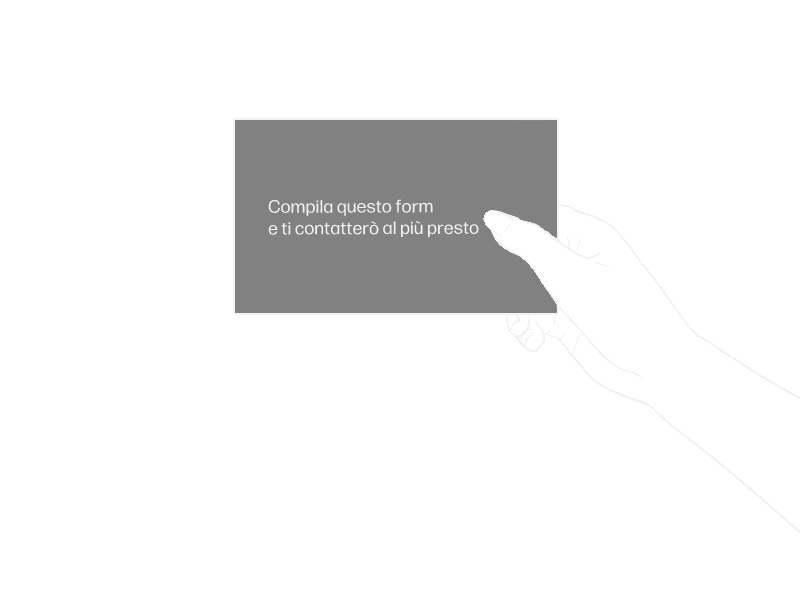
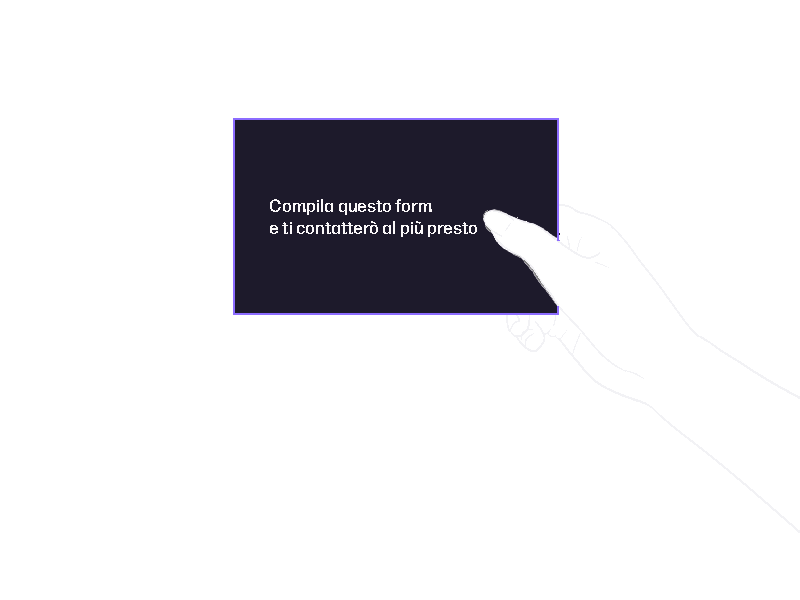
Fixed contacts image

Changed region(s): [[0.2812, 0.18, 0.7188, 0.54]]

diff --git a/src/views/ContactsView.vue b/src/views/ContactsView.vue
@@ -141,7 +141,7 @@ onBeforeUnmount(() => window.removeEventListener('keydown', onKeydown))
     </h2>
 
     <p class="form-lead">
-      Compila il form qui sotto, ti risponderò il prima possibile!
+      Compila il form qui sotto, ti contatterò al più presto.
     </p>
 
     <!-- Messaggi stato -->
@@ -151,7 +151,7 @@ onBeforeUnmount(() => window.removeEventListener('keydown', onKeydown))
       role="status"
       aria-live="polite"
     >
-      ✅ Messaggio inviato, grazie! Ti risponderò il prima possibile.
+      ✅ Messaggio inviato, grazie! ti contatterò al più presto.
     </p>
 
     <p v-if="errorMsg" class="form-error" role="alert">
